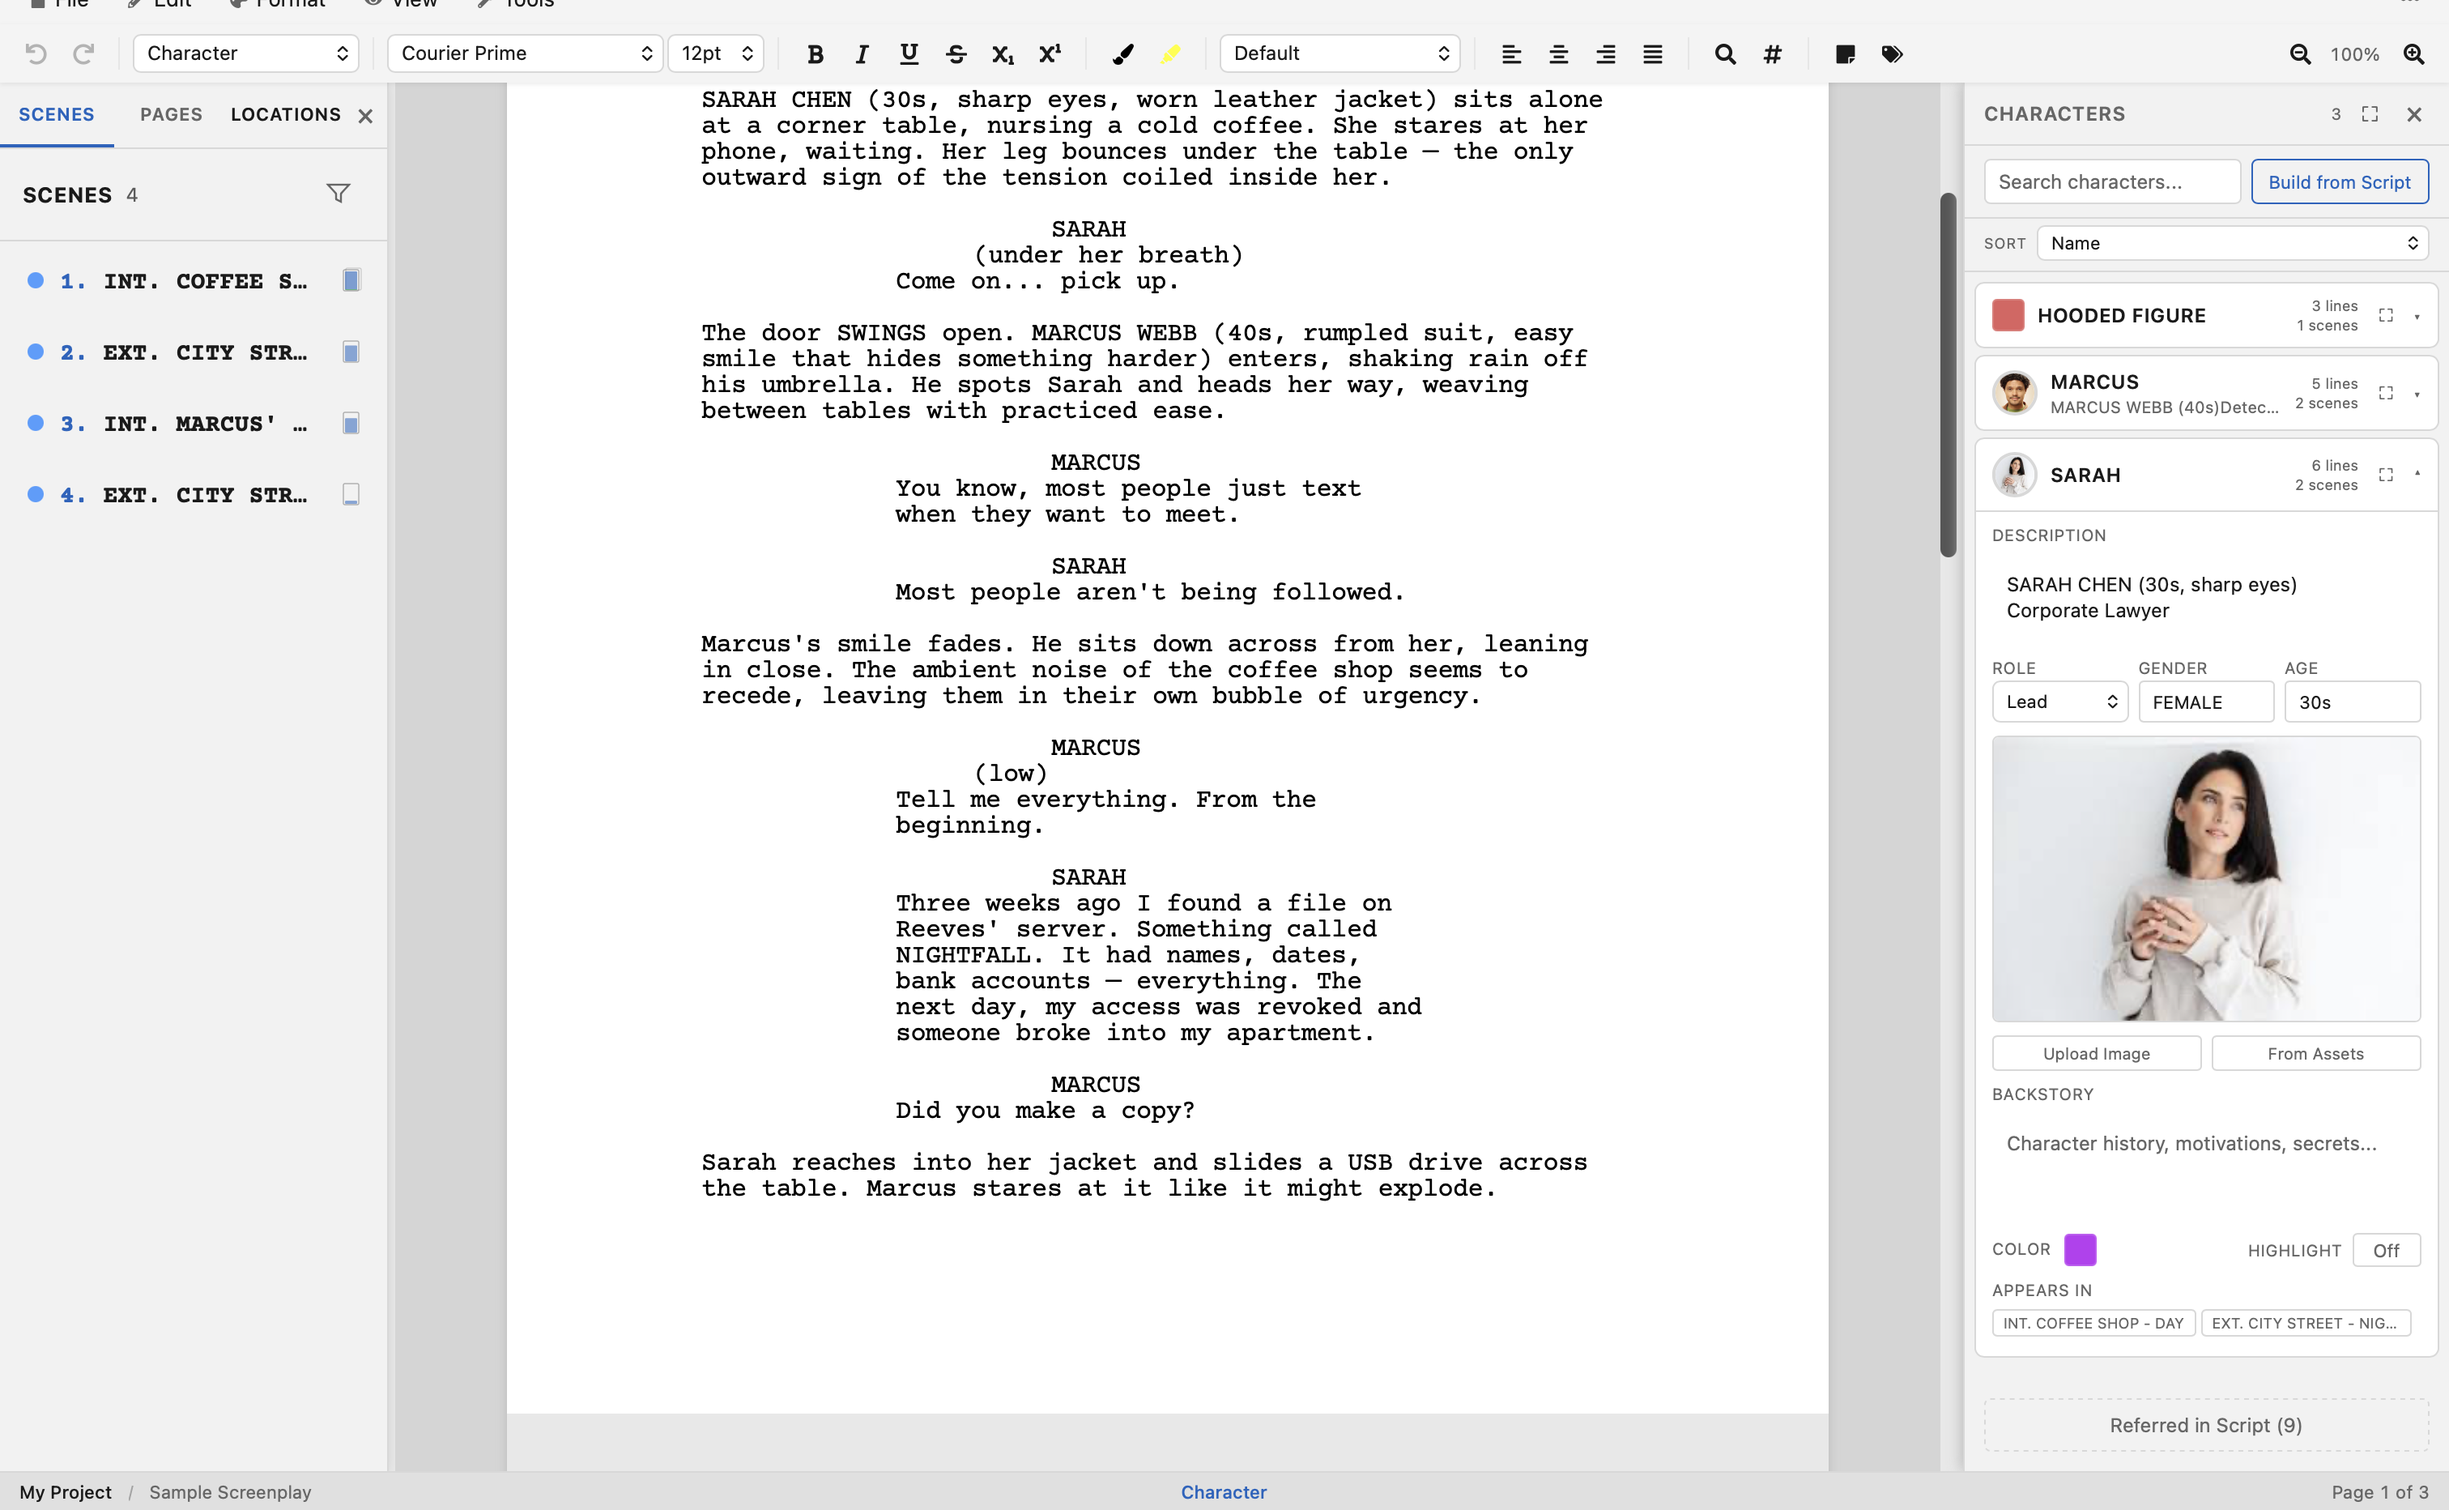
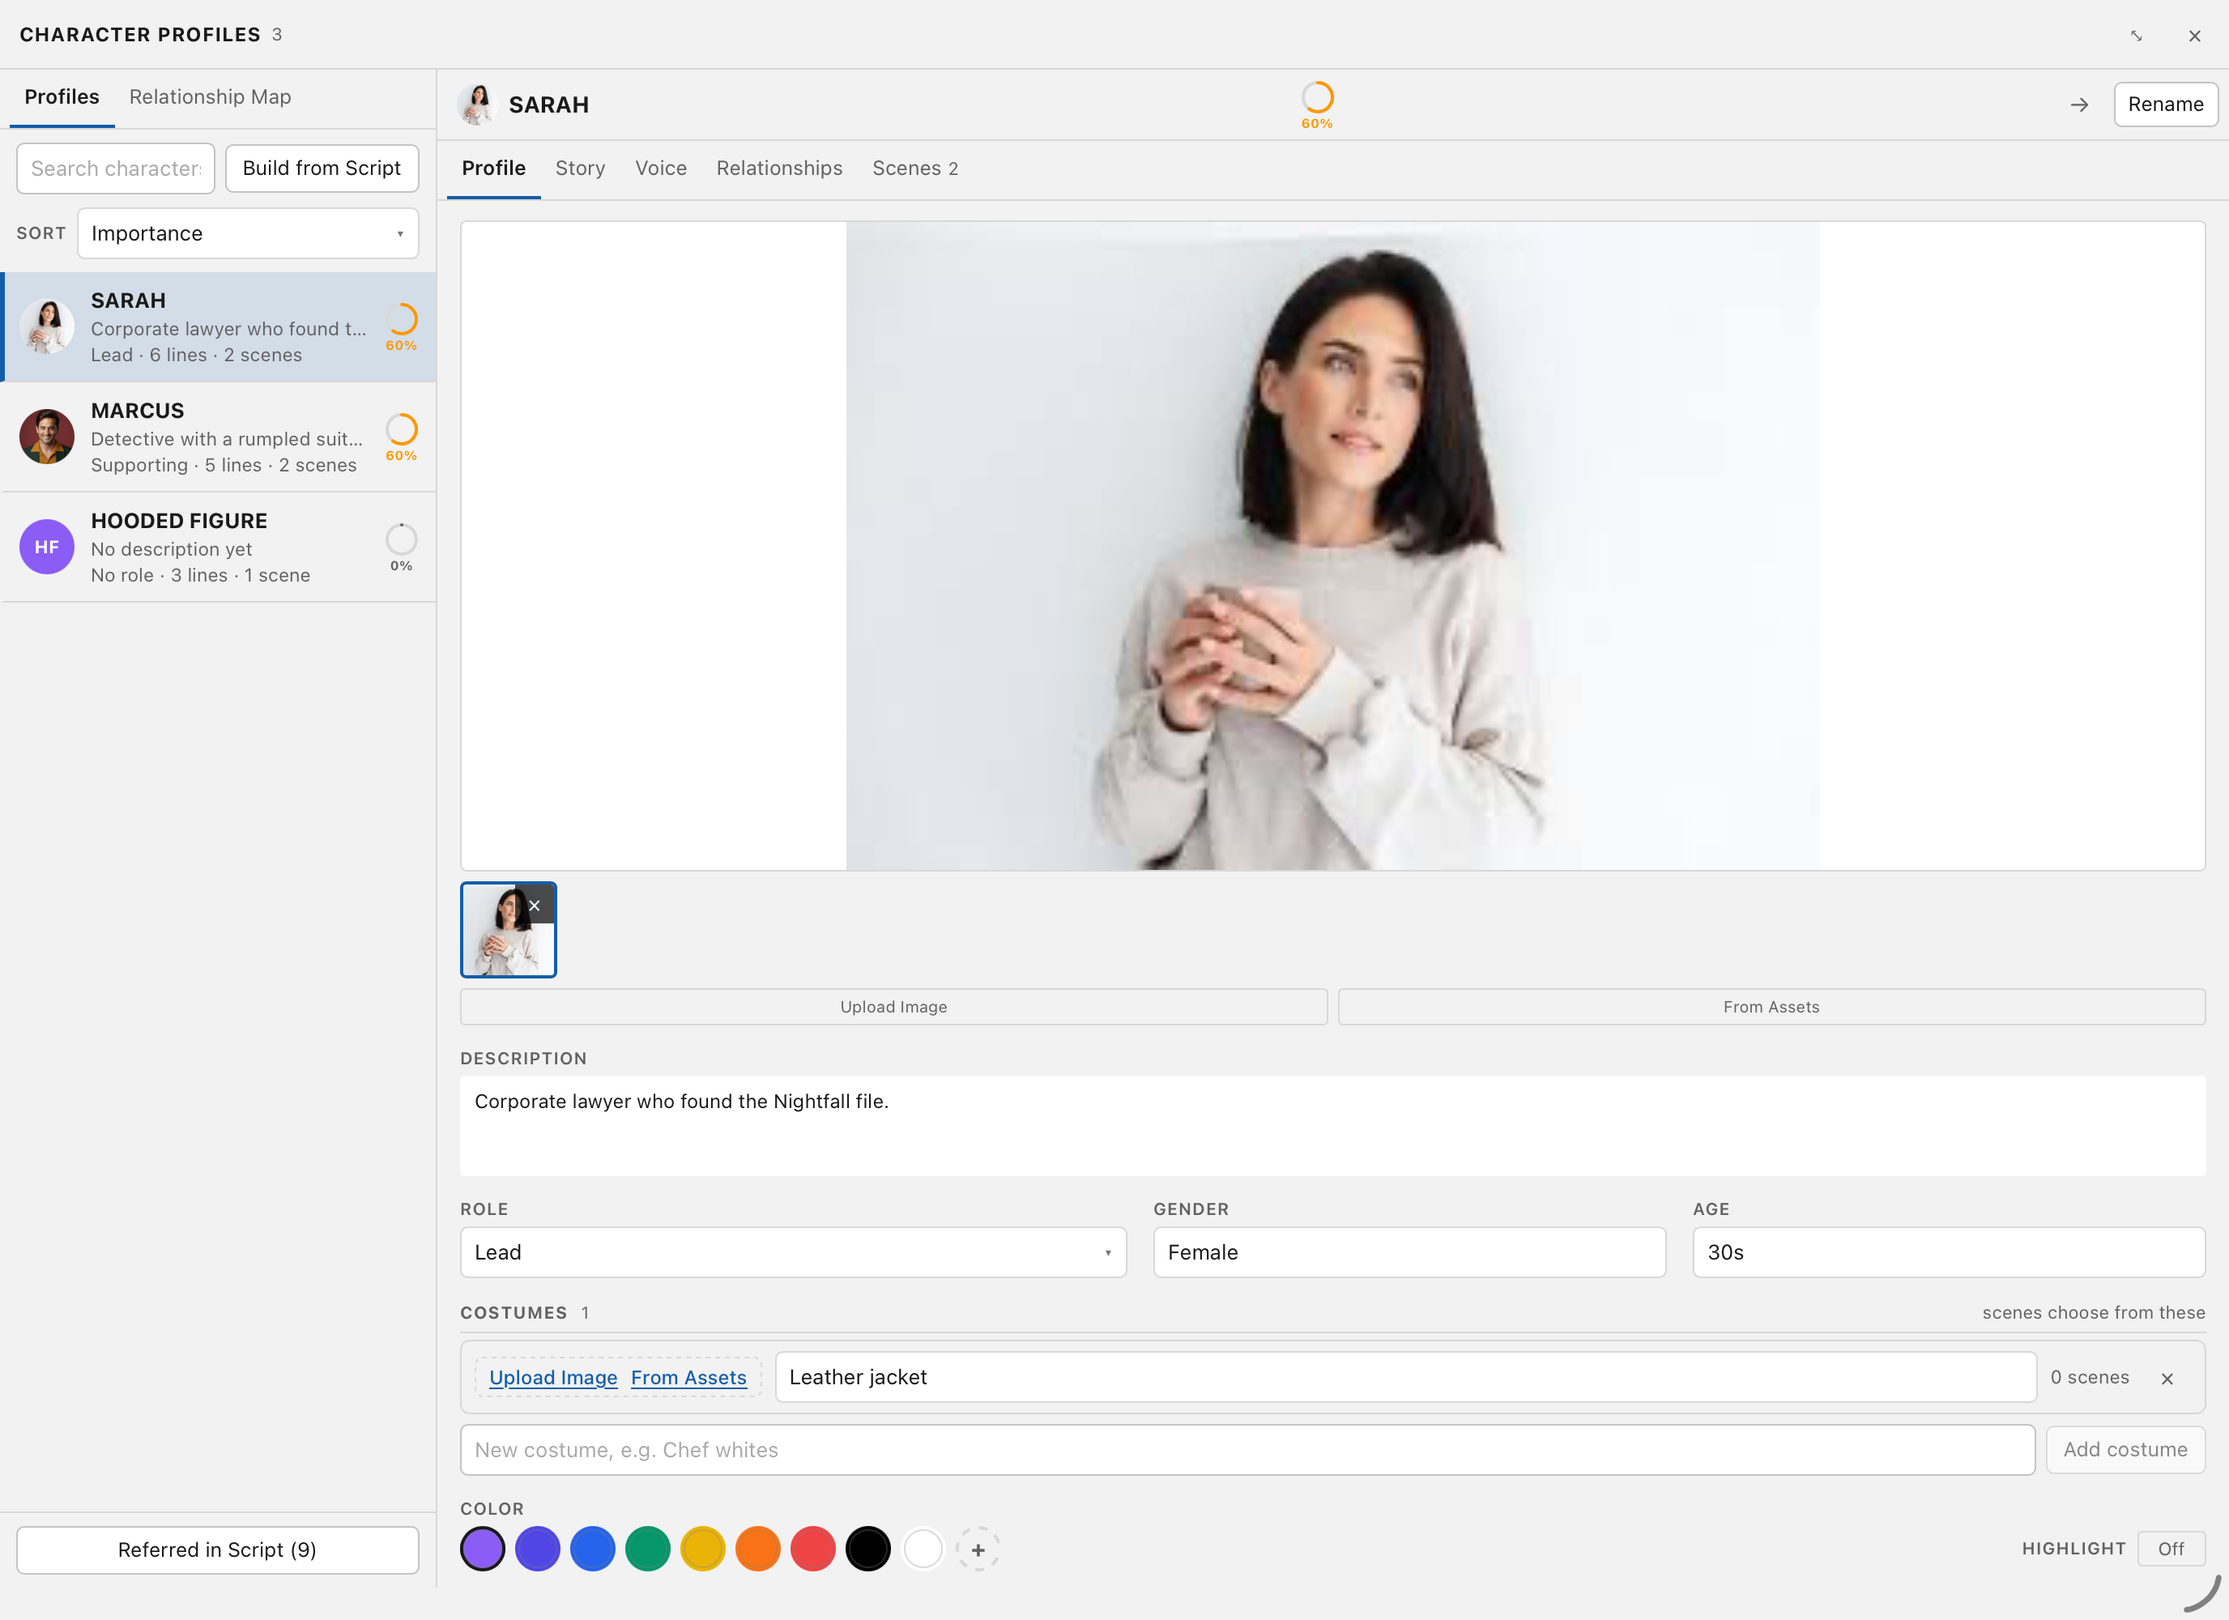
docs: new Character Profiles screenshot, and Location Profiles and Scene Details ones
character_profile.png (website and manual) now shows the new panel: the
list with each portrait as its icon beside a full profile. Location
Profiles and Scene Details get their first screenshots. The location images
in them are illustrations drawn by test-script/manual_shots/draw_locations.py.
Manifest regenerated.

diff --git a/user-manual/characters.html b/user-manual/characters.html
@@ -111,10 +111,10 @@
     <p>Open the panel from <strong>View &gt; Panels &gt; Character Profiles</strong>. It docks beside the editor. To put a button for it on the toolbar, add <strong>Character Profiles</strong> in the toolbar&rsquo;s customise list. Clicking a character&rsquo;s cue in the script, or a character&rsquo;s name in <a href="scene-details.html">Scene Details</a> or Location Profiles, opens the panel on that character.</p>
 
     <div class="screenshot">
-      <img src="../images/macos/character_profile.png" alt="Character Profiles showing the character list with profile details, avatar, role, gender, and age">
+      <img src="../images/macos/character_profile.png" alt="Character Profiles in the wide view: the character list with each portrait as its icon, and Sarah's profile with her reference image, description, role, gender, age and costumes">
     </div>
 
-    <p>The panel automatically detects every character in your screenplay &mdash; anyone who has a <strong>Character</strong> element (i.e., anyone who speaks) appears in the list. Characters with images show a round avatar in the collapsed view.</p>
+    <p>The panel automatically detects every character in your screenplay &mdash; anyone who has a <strong>Character</strong> element (i.e., anyone who speaks) appears in the list. A character with an image shows it as their round icon in the list and in the profile&rsquo;s header; the others show their initials.</p>
 
     <h3 id="layout">The List and One Character</h3>
 

diff --git a/user-manual/scene-details.html b/user-manual/scene-details.html
@@ -110,6 +110,10 @@
 
     <p>Open it from <strong>View &gt; Panels &gt; Scene Details</strong>. It docks beside the script like the other panels, and <strong>View &gt; Layout</strong> can move it to another side or group it with them. To put a button for it on the toolbar, add <strong>Scene Details</strong> in the toolbar&rsquo;s customise list.</p>
 
+    <div class="screenshot">
+      <img src="../images/macos/scene_details.png" alt="Scene Details beside the script for scene 1, INT. COFFEE SHOP - DAY: its synopsis, the Coffee Shop with its image and the Morning rush look, and Sarah and Marcus with their portraits, Sarah in her leather jacket">
+    </div>
+
     <p>The panel <strong>follows the cursor</strong>: it always shows the scene you are in. The <strong>&lsaquo;</strong> and <strong>&rsaquo;</strong> buttons move the cursor to the previous or next scene, and clicking the heading jumps to it. When the panel is wide enough, the scene&rsquo;s shots sit in a second column.</p>
 
     <h2 id="what-comes-from-the-script">What Comes From the Script</h2>

diff --git a/user-manual/locations.html b/user-manual/locations.html
@@ -125,6 +125,10 @@ INT. COFFEE SHOP - DAY</code></pre>
       <li><strong>View &gt; Panels &gt; Location Profiles</strong> &mdash; Opens <a href="#location-database">Location Profiles</a>, where each location keeps its own details, looks and reference images. To put a button for it on the toolbar, add <strong>Location Profiles</strong> in the toolbar&rsquo;s customise list.</li>
     </ul>
 
+    <div class="screenshot">
+      <img src="../images/macos/location_profile.png" alt="Location Profiles in the wide view: the locations with their reference images as thumbnails, and the Coffee Shop with its image, description, type and a look called Morning rush">
+    </div>
+
     <h2 id="location-groups">Location Groups</h2>
 
     <p>Each location group shows:</p>
